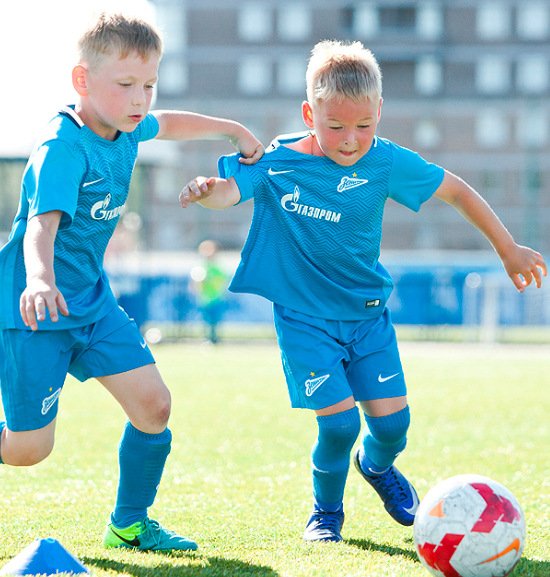
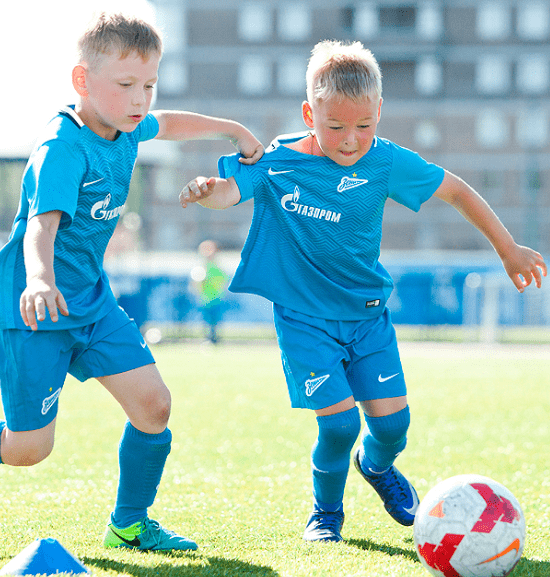
refact: compress img

diff --git a/index.html b/index.html
@@ -73,7 +73,7 @@
           </div>
         </div>
         <button type="button" class="project__btn button btn btn-outline-dark rounded-0" data-toggle="collapse"
-          data-target="#collapse" aria-expanded="false" aria-controls="collapseExample">загрузить еще</button>
+          data-target="#collapse" aria-expanded="false" aria-controls="collapse">загрузить еще</button>
       </div>
     </div>
   </section>
